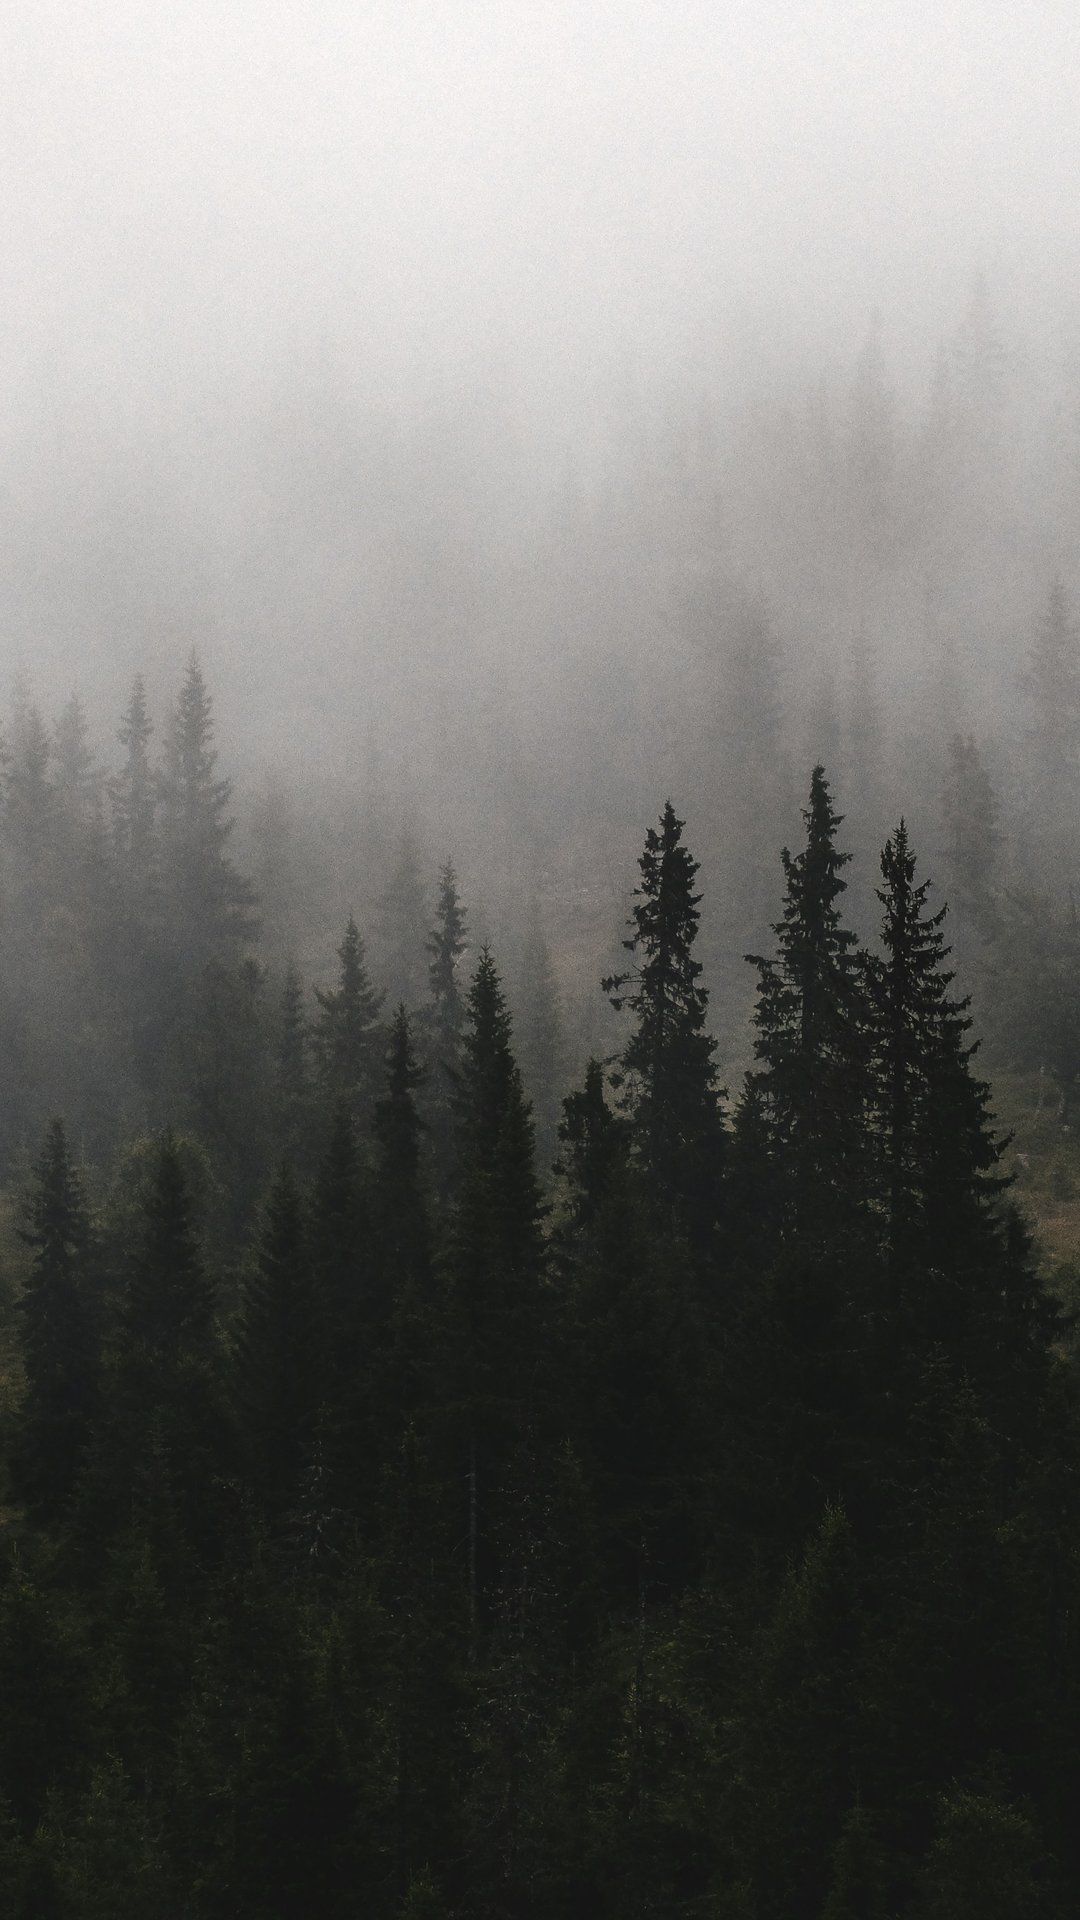
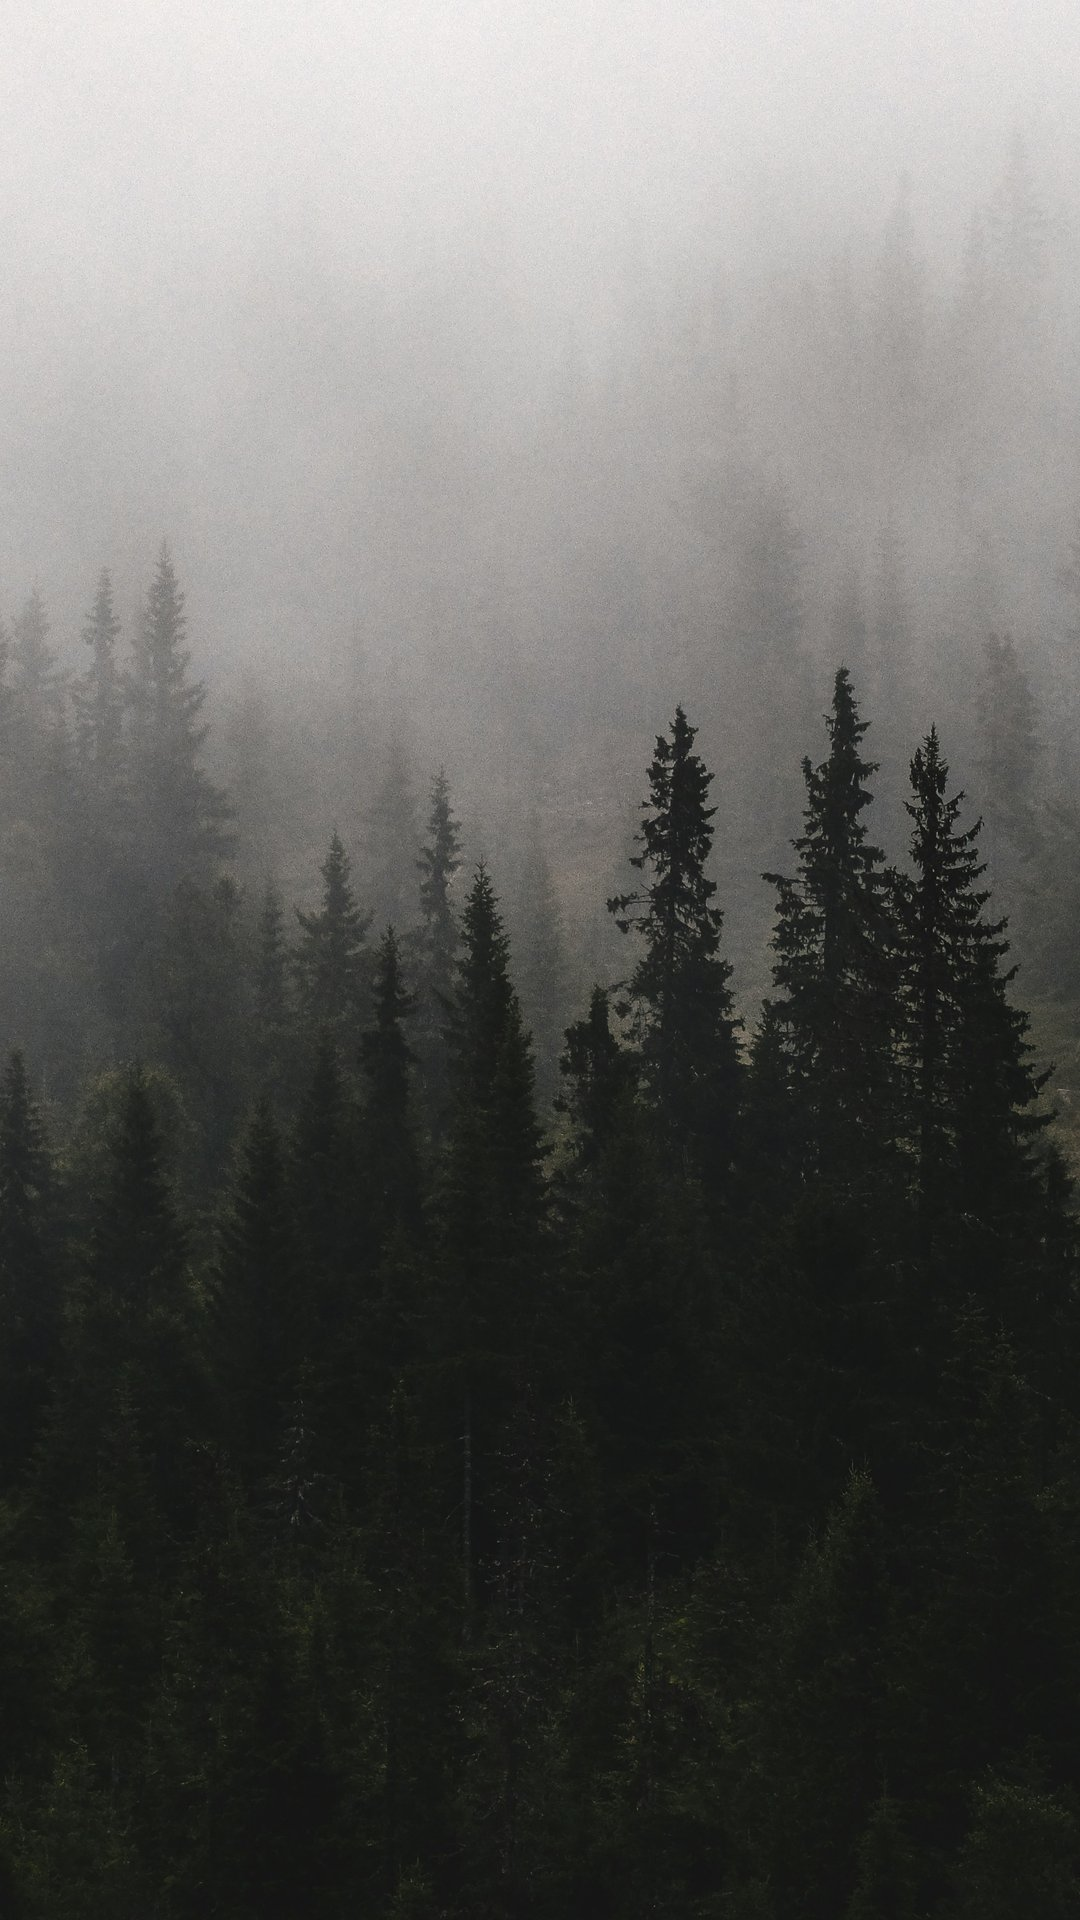
fix: login mobil - crop portrait + position:fixed + sticla mai calda
Decupaj portrait refacut: start mai jos in sursa (skip ceata goala de
sus), bradii ajung deja spre treimea superioara a cadrului.

Suspect real pentru "felia nu se afiseaza integral": Image (fill) +
overlay-urile absolute stateau intr-un parinte cu minHeight:100vh (nu
height fix) - procentele de inaltime ale copiilor pot sa nu se
rezolve corect pe Safari intr-un asemenea caz. Trecute pe
position:fixed + 100vw/100vh explicit, complet independent de
parinte.

Sticla: la 0.28 opacitate, orice culoare de tenta pe un fundal atat de
intunecat da tot gri-verzui (verificat numeric si vizual - chiar alb
pur la 0.28 pe acest fundal ramane mut). Solutia corecta nu era
culoarea, era backdrop-filter: adaugat brightness(1.7) saturate(0.6)
inainte de blur, care lumineaza efectiv ce se vede prin sticla fara sa
schimbe transparenta. Tenta ramane calda (255,232,205).

MICI.md: nota despre login biometric (passkeys/WebAuthn), pentru dupa
validare.

diff --git a/components/auth/AuthScreen.jsx b/components/auth/AuthScreen.jsx
@@ -62,10 +62,10 @@ export default function AuthScreen() {
         priority
         unoptimized
         sizes="100vw"
-        style={{ position: "absolute", top: 0, left: 0, width: "100%", height: "100%", objectFit: "cover", objectPosition: isNarrow ? "50% 30%" : "50% 75%", zIndex: 0, filter: "contrast(1.12)" }}
+        style={{ position: "fixed", top: 0, left: 0, width: "100vw", height: "100vh", objectFit: "cover", objectPosition: isNarrow ? "50% 50%" : "50% 75%", zIndex: 0, filter: "contrast(1.12)" }}
       />
-      <div style={{ position: "absolute", inset: 0, background: "linear-gradient(180deg, rgba(20,30,25,0.52) 0%, rgba(20,30,25,0.38) 35%, rgba(20,30,25,0.30) 100%)", zIndex: 1 }} />
-      <div style={{ position: "absolute", inset: 0, background: "radial-gradient(ellipse 60% 45% at 50% 58%, rgba(244,242,237,0.08) 0%, rgba(244,242,237,0) 70%)", zIndex: 1, pointerEvents: "none" }} />
+      <div style={{ position: "fixed", top: 0, left: 0, width: "100vw", height: "100vh", background: "linear-gradient(180deg, rgba(20,30,25,0.52) 0%, rgba(20,30,25,0.38) 35%, rgba(20,30,25,0.30) 100%)", zIndex: 1 }} />
+      <div style={{ position: "fixed", top: 0, left: 0, width: "100vw", height: "100vh", background: "radial-gradient(ellipse 60% 45% at 50% 58%, rgba(244,242,237,0.08) 0%, rgba(244,242,237,0) 70%)", zIndex: 1, pointerEvents: "none" }} />
 
       <div style={{ position: "relative", zIndex: 2, width: "100%", maxWidth: 400, display: "flex", flexDirection: "column", alignItems: "center" }}>
         <h1 style={{ fontFamily: serif, fontSize: 46, fontWeight: 600, color: C.ivory, letterSpacing: "0.02em", margin: "0 0 8px", lineHeight: 1, textShadow: "0 2px 10px rgba(10,16,13,0.75), 0 1px 3px rgba(10,16,13,0.9)" }}>nora</h1>
@@ -73,7 +73,7 @@ export default function AuthScreen() {
           a quieter way to take care
         </p>
 
-        <div style={{ width: "100%", boxSizing: "border-box", backgroundColor: "rgba(255,240,205,0.28)", backdropFilter: "blur(36px)", WebkitBackdropFilter: "blur(36px)", border: "1px solid rgba(255,246,222,0.4)", borderRadius: 20, boxShadow: "0 8px 40px rgba(13,20,16,0.3)", padding: "32px 28px 28px", textAlign: "center" }}>
+        <div style={{ width: "100%", boxSizing: "border-box", backgroundColor: "rgba(255,232,205,0.28)", backdropFilter: "blur(36px) brightness(1.7) saturate(0.6)", WebkitBackdropFilter: "blur(36px) brightness(1.7) saturate(0.6)", border: "1px solid rgba(255,246,222,0.4)", borderRadius: 20, boxShadow: "0 8px 40px rgba(13,20,16,0.3)", padding: "32px 28px 28px", textAlign: "center" }}>
           <p style={{ color: C.text, fontSize: 13, lineHeight: 1.6, margin: "0 0 24px" }}>
             {isRegister ? "Create your account to begin." : "Welcome back."}
           </p>

diff --git a/MICI.md b/MICI.md
@@ -7,3 +7,6 @@
 
 ## Idei prioritare
 - **Onboarding conversațional:** 1-2 ecrane după înregistrare în care Nora se prezintă și explică ce face aplicația (nutrition + rituals + ghidare personalizată) — aici se rezolvă înțelegerea aplicației, nu pe login. De construit odată cu / imediat după capitolul B (vocea).
+
+## Idei post-validare
+- **Login biometric (Face ID/amprentă) prin passkeys/WebAuthn** — suportat nativ de Supabase Auth; telefonul verifică, noi primim doar confirmarea, zero date biometrice stocate la noi. De adăugat când există utilizatori recurenți, ca reducere de fricțiune la login.
